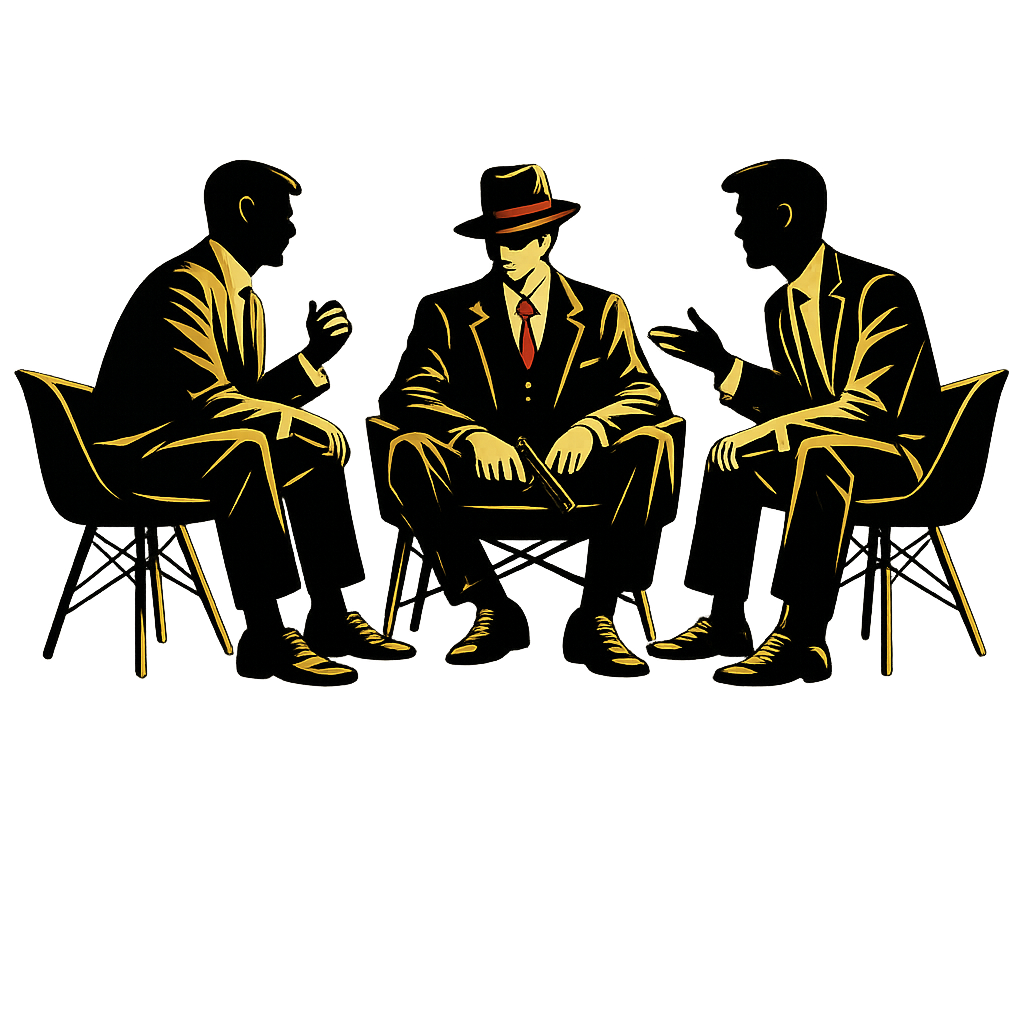
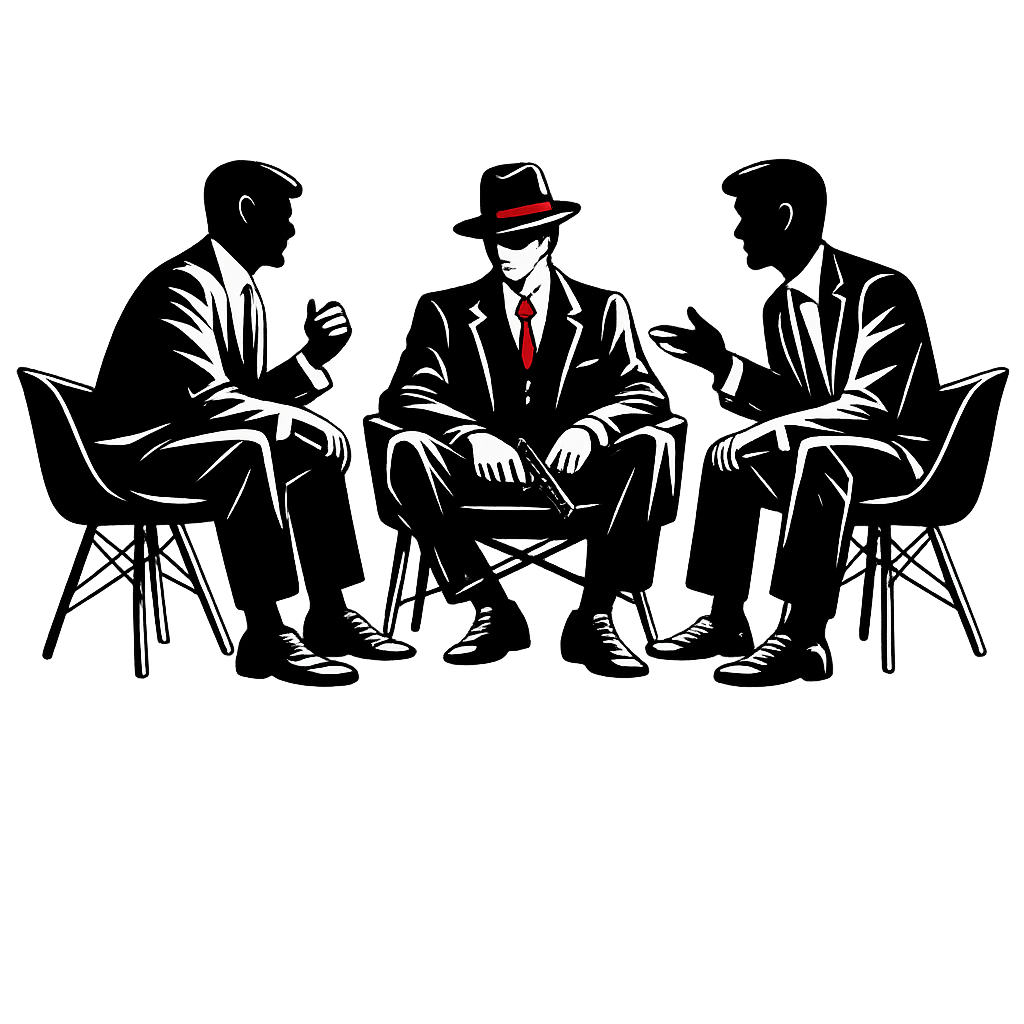
feat:mafia game ui working

diff --git a/lib/games/mafia/screens/phone_game.dart b/lib/games/mafia/screens/phone_game.dart
@@ -16,6 +16,8 @@ class MafiaPhoneGame extends StatelessWidget {
         children: [
           const Positioned.fill(child: _GameBackground()),
           Positioned.fill(child: Header()),
+
+          Positioned.fill(child: FreeTalk()),
           Positioned.fill(
             child: RoleCardRevealAnimation(
               backCardAsset: Assets.games.mafia.images.cards.roleBack,
@@ -73,5 +75,49 @@ class _BodyState extends State<Body> {
   @override
   Widget build(BuildContext context) {
     return const Placeholder();
+  }
+}
+
+class FreeTalk extends StatelessWidget {
+  const FreeTalk({super.key});
+
+  @override
+  Widget build(BuildContext context) {
+    return Center(
+      child: Column(
+        mainAxisSize: MainAxisSize.min,
+        children: [
+          Text(
+            "자유토론",
+            style: TextStyle(fontSize: 50, fontWeight: FontWeight.w900),
+          ),
+          Text(
+            "2m 30s",
+            style: TextStyle(fontSize: 20, fontWeight: FontWeight.w600),
+          ),
+          Assets.games.mafia.images.other.talkPhone.image(
+            fit: BoxFit.cover,
+            alignment: Alignment.center,
+          ),
+
+          FilledButton(
+            onPressed: null,
+            style: FilledButton.styleFrom(
+              backgroundColor: Colors.white,
+              foregroundColor: Colors.black,
+              minimumSize: const Size(240, 60),
+              shape: RoundedRectangleBorder(
+                borderRadius: BorderRadius.circular(14),
+              ),
+              textStyle: const TextStyle(
+                fontSize: 28,
+                fontWeight: FontWeight.bold,
+              ),
+            ),
+            child: const Text("토론 종료하기"),
+          ),
+        ],
+      ),
+    );
   }
 }
